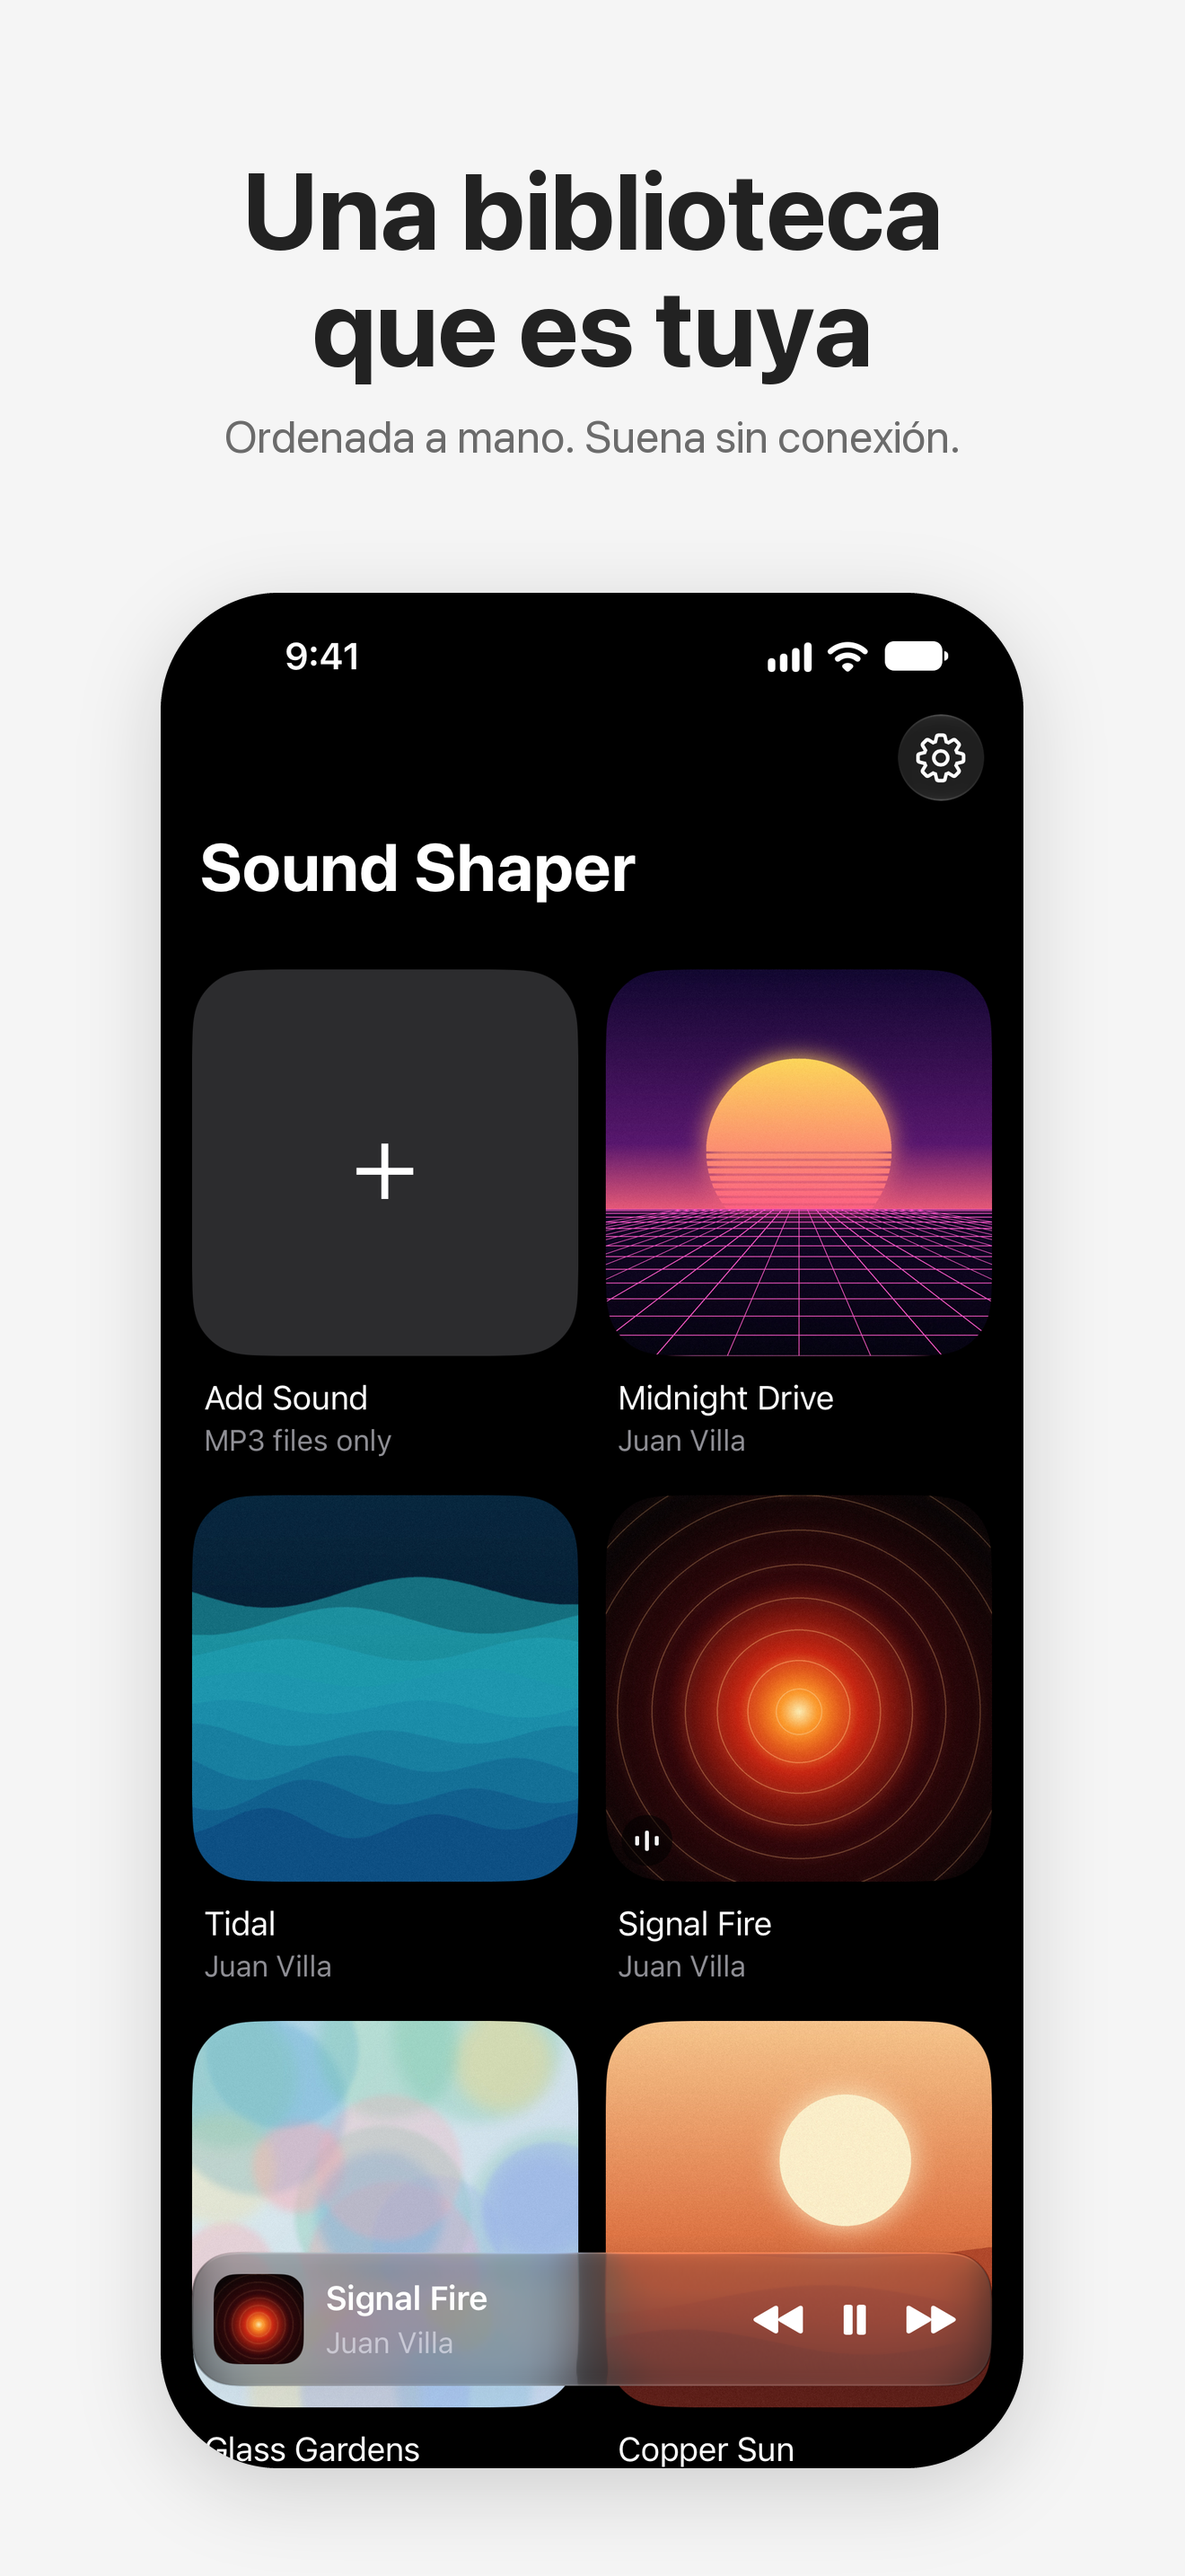
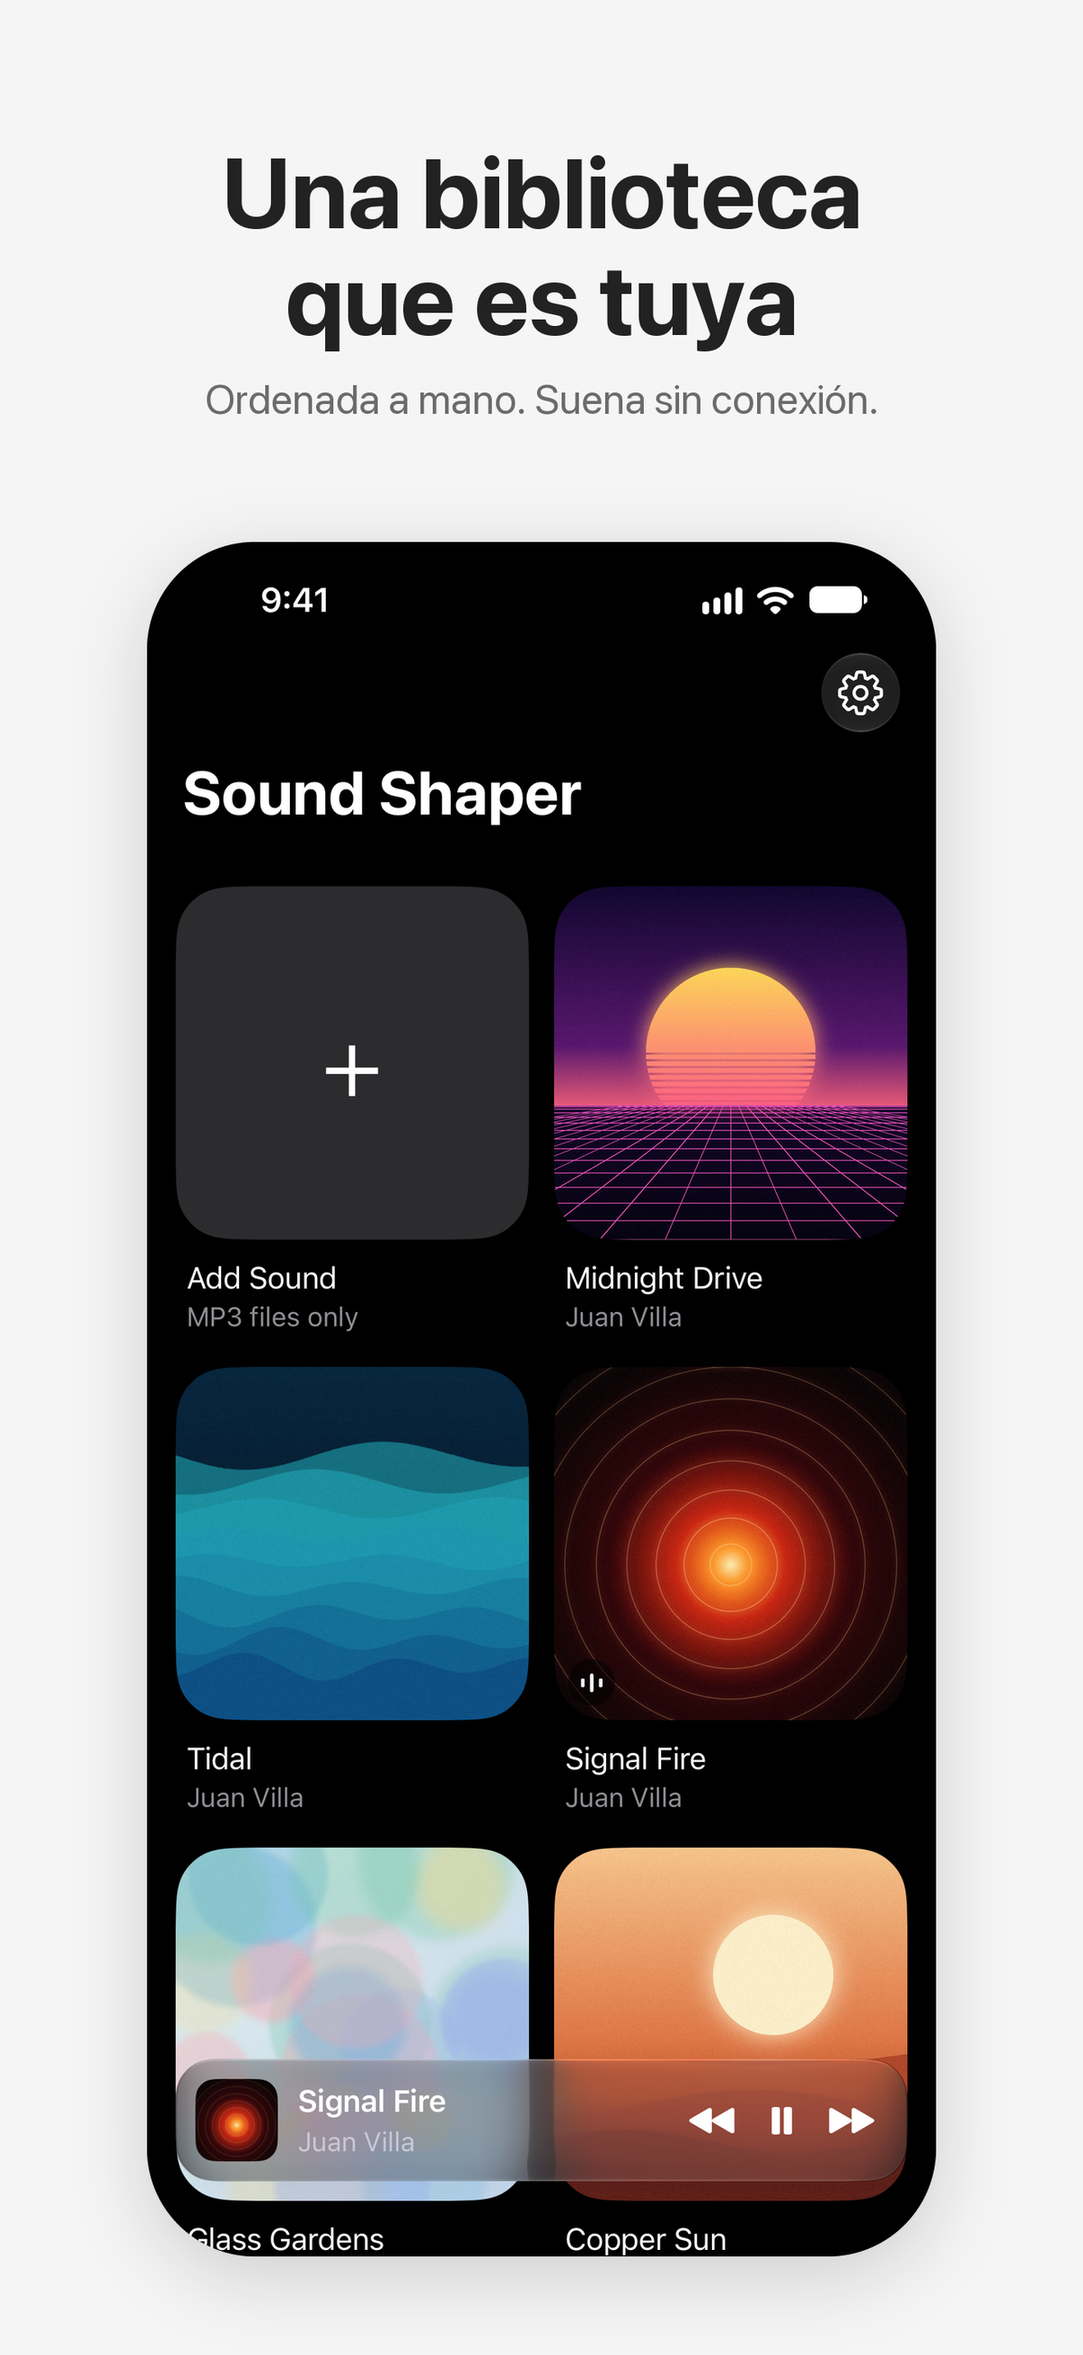
fix(store): render the screenshots at the 6.3-inch size App Store Connect takes

diff --git a/store/generate.py b/store/generate.py
@@ -6,8 +6,10 @@
 Inputs:   store/copy.json          headline + subhead per screen, per locale
           store/source/*.png       real app screenshots (store/source/<locale>/
                                    overrides a file for that locale)
-Outputs:  store/screenshots/<locale>/NN-<name>.png at 1320 x 2868, the 6.9"
-          iPhone size App Store Connect requires.
+Outputs:  store/screenshots/<locale>/NN-<name>.png at 1206 x 2622, the
+          size App Store Connect's iPhone slot ("iPhone with Dynamic Island,
+          medium display" — 6.1"/6.3") takes since 2026. It refused 1320 x
+          2868 there. The layout is drawn at 1320 x 2868 and scaled down once.
 
 The composition is the one Apple's own App Store listings use: a short bold
 headline in SF Pro over a calm, flat ground, an optional one-line subhead, and
@@ -34,8 +36,9 @@ SOURCE = ROOT / "source"
 OUT = ROOT / "screenshots"
 LOCALES = ("en-US", "es-MX")
 
-# The 6.9" iPhone size, the one App Store Connect requires.
+# The canvas is laid out at the 6.9" size and scaled to OUT_SIZE on save.
 W, H = 1320, 2868
+OUT_SIZE = (1206, 2622)
 
 GROUND = (0xF5, 0xF5, 0xF5)
 INK = (0x22, 0x22, 0x22)
@@ -167,7 +170,11 @@ def render(screen: dict, locale: str, index: int) -> Path:
     name = Path(screen["source"]).stem
     out = OUT / locale / f"{index:02d}-{name}.png"
     out.parent.mkdir(parents=True, exist_ok=True)
-    canvas.save(out, optimize=True)
+    # 1320 x 2868 and 1206 x 2622 differ in aspect by 0.06%: scale to the
+    # height and trim the one spare column, which is flat ground.
+    scaled = canvas.resize((round(OUT_SIZE[1] * W / H), OUT_SIZE[1]), Image.LANCZOS)
+    left = (scaled.width - OUT_SIZE[0]) // 2
+    scaled.crop((left, 0, left + OUT_SIZE[0], OUT_SIZE[1])).save(out, optimize=True)
     return out
 
 
@@ -179,7 +186,7 @@ def main() -> int:
         for i, screen in enumerate(screens, start=1):
             out = render(screen, locale, i)
             with Image.open(out) as im:
-                assert im.size == (W, H), f"{out} is {im.size}"
+                assert im.size == OUT_SIZE, f"{out} is {im.size}"
             print(out.relative_to(ROOT.parent))
     return 0
 

diff --git a/store/README.md b/store/README.md
@@ -1,9 +1,10 @@
 # App Store screenshots
 
 `screenshots/en-US/` and `screenshots/es-MX/` hold the listing's iPhone
-screenshots at **1320 × 2868**, the 6.9" size App Store Connect requires (it
-scales them down for every smaller iPhone). They are generated; never edit them
-by hand.
+screenshots at **1206 × 2622**. App Store Connect's iPhone slot is "iPhone
+with Dynamic Island (medium display)", 6.1"/6.3", and it rejected the 6.9"
+1320 × 2868 set on 2026-10-17; the layout is still drawn at 6.9" and scaled
+down once. They are generated; never edit them by hand.
 
 ```bash
 npm run store-screenshots

diff --git a/docs/store-listing.md b/docs/store-listing.md
@@ -199,7 +199,7 @@ to one is a change to the other.
 - **The legal pages are LIVE** (2026-10-17, juanevillam.com, site `v1.0.0`):
   both URLs above answer 200.
 - Screenshots: ✅ retaken 2026-10-17 with original music and covers (see
-  [`store/demo-audio/`](../store/demo-audio/README.md)), 1320 × 2868, English
+  [`store/demo-audio/`](../store/demo-audio/README.md)), 1206 × 2622 (App Store Connect's medium-display slot), English
   UI in both sets — the Spanish set shows English screens under Spanish
   headlines.
 - The reviewer attachment is `Midnight Drive.mp3` sent as `Midnight Drive.zip`
